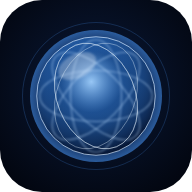
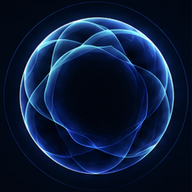
fix: auto running and connections err

diff --git a/ui/src/App.tsx b/ui/src/App.tsx
@@ -98,17 +98,15 @@ export default function App() {
 }
 
 function Mark() {
+  // The client's own artwork, same file the home-screen icon is cut from.
   return (
-    <span className="relative grid h-9 w-9 shrink-0 place-items-center" aria-hidden>
-      <span
-        className="absolute inset-0 rounded-full"
-        style={{ background: "radial-gradient(circle at 35% 30%, #7db9ff, #0a1836 70%)" }}
-      />
-      <span
-        className="absolute inset-0 rounded-full"
-        style={{ boxShadow: "0 0 14px rgba(47,128,255,.7)" }}
-      />
-    </span>
+    <img
+      src="/icon-192.png"
+      alt=""
+      aria-hidden
+      className="h-9 w-9 shrink-0 rounded-full"
+      style={{ boxShadow: "0 0 14px rgba(47,128,255,.55)" }}
+    />
   );
 }
 

diff --git a/ui/public/sw.js b/ui/public/sw.js
@@ -7,7 +7,8 @@
  * and layout appear instantly and the app boots offline far enough to say it
  * has no connection.
  */
-const SHELL_CACHE = "social-shell-v1";
+// Bumped when the icon changed — a stale cache would keep serving the old one.
+const SHELL_CACHE = "social-shell-v2";
 const SHELL = ["/", "/index.html", "/icon-192.png", "/icon-512.png"];
 
 self.addEventListener("install", (event) => {

diff --git a/ui_server/server.py b/ui_server/server.py
@@ -776,14 +776,25 @@ async def _openai_health() -> tuple[bool, str]:
             r = await client.post(
                 "https://api.openai.com/v1/chat/completions",
                 headers={"Authorization": f"Bearer {key}"},
+                # 16, not 1: reasoning models spend tokens thinking before
+                # they emit anything, so a cap of 1 returns 400 "output limit
+                # reached" on a perfectly healthy account.
                 json={"model": os.environ.get("SOCIAL_HEALTH_MODEL", "gpt-5-nano"),
                       "messages": [{"role": "user", "content": "."}],
-                      "max_completion_tokens": 1},
+                      "max_completion_tokens": 16},
             )
+        body = r.json() if r.content else {}
+        error = body.get("error") or {}
+        message = str(error.get("message") or "")
+
         if r.status_code == 200:
             ok, detail = True, "GPT / 音声 / 画像"
+        elif "max_tokens" in message or "output limit" in message:
+            # The request was authorised and billed — it only ran out of room
+            # to answer. That is proof of health, not a failure.
+            ok, detail = True, "GPT / 音声 / 画像"
         else:
-            code = (r.json().get("error") or {}).get("code", "")
+            code = error.get("code", "")
             detail = {
                 "credit_balance_exhausted":
                     "⚠ 残高切れです。チャージが必要です",
@@ -792,6 +803,7 @@ async def _openai_health() -> tuple[bool, str]:
                 "invalid_api_key": "⚠ APIキーが無効です",
                 "rate_limit_exceeded": "一時的に混雑しています",
             }.get(code, f"⚠ 利用できません（{code or r.status_code}）")
+            _ = message  # kept for the branch above
     except Exception:
         detail = "接続を確認できませんでした"
 

diff --git a/docs/RUNBOOK.md b/docs/RUNBOOK.md
@@ -1,0 +1,188 @@
+# SOCIAL — 運用コマンド集
+
+すべて `~/Social-ai` を起点に実行します。
+Hermes を直接呼ばず、必ず `./scripts/social-hermes` を経由してください
+（`HERMES_HOME` と `.env` を固定するラッパーです）。
+
+---
+
+## 1. まず現状を知る
+
+```bash
+cd ~/Social-ai
+./scripts/health-check.sh
+```
+
+環境・秘密情報の有無・ファイル権限・稼働状況をまとめて確認します。
+**値は一切表示しません**（設定済みかどうかだけ）。
+
+```bash
+# 3サービスの状態を一覧
+systemctl --user status hermes-gateway social-tunnel social-ui --no-pager | grep -E "●|Active:"
+```
+
+---
+
+## 2. 常駐サービス
+
+SOCIAL は 3 つのサービスで動いています。すべて **systemd ユーザーサービス**で、
+異常終了しても自動復帰し、サーバー再起動後も自動で立ち上がります。
+
+| サービス | 役割 | ポート |
+|---|---|---|
+| `hermes-gateway` | AI本体・LINE受信・定時実行 | 8646（LINE） |
+| `social-ui` | 専用UI | 9200 |
+| `social-tunnel` | 公開（Cloudflare） | — |
+
+```bash
+# 起動 / 停止 / 再起動
+systemctl --user start   <サービス名>
+systemctl --user stop    <サービス名>
+systemctl --user restart <サービス名>
+
+# 3つまとめて再起動
+systemctl --user restart hermes-gateway social-ui social-tunnel
+
+# ログ（-f で追従）
+journalctl --user -u hermes-gateway -n 50
+journalctl --user -u social-ui -f
+```
+
+> **`./scripts/start-ui.sh` は手動起動用です。**
+> 常用は `systemctl --user start social-ui` を使ってください。手動起動は
+> 監視外なので、落ちるとそのままになります。
+
+---
+
+## 3. 動作確認
+
+```bash
+# 公開URL
+curl -s -o /dev/null -w "UI   %{http_code}\n" https://social-ai01.com/login
+curl -s -o /dev/null -w "LINE %{http_code}\n" https://line.social-ai01.com/line/webhook/health
+
+# SOCIALに直接聞く（CLI）
+./scripts/social-hermes -z "あなたの名前は？"
+
+# 対話モード
+./scripts/social-hermes chat
+```
+
+---
+
+## 4. OpenAI の残高・キー確認
+
+残高が尽きると**会話・音声・画像生成のすべてが停止**します。
+専用UIの **MENU → CONNECTIONS** に状態が出ますが、コマンドでも確認できます。
+
+```bash
+cd ~/Social-ai
+set -o allexport; source .env; set +o allexport
+curl -s https://api.openai.com/v1/chat/completions \
+  -H "Authorization: Bearer $OPENAI_API_KEY" -H "Content-Type: application/json" \
+  -d '{"model":"gpt-5-nano","messages":[{"role":"user","content":"."}],"max_completion_tokens":16}' \
+  | python3 -c "import json,sys;d=json.load(sys.stdin);e=d.get('error');print('NG:',e.get('code')) if e else print('OK')"
+```
+
+`credit_balance_exhausted` が出たらチャージが必要です。
+https://platform.openai.com/settings/organization/billing
+
+> **`/v1/models` では判定できません。** 残高ゼロでも 200 を返します。
+> 実際に課金される呼び出しでしか分かりません。
+
+---
+
+## 5. 秘密情報の追加・変更
+
+**エディタで `.env` を直接編集しないでください。** 専用コマンドがあります。
+
+```bash
+./scripts/set-secret.sh OPENAI_API_KEY        # 入力は非表示
+./scripts/sync-env.sh                          # Hermes側へ反映
+systemctl --user restart hermes-gateway social-ui
+```
+
+`set-secret.sh` は入力を伏せ、シェル履歴にも `ps` にも残さず、
+書き込み後に**実際に読み込めるか検証**します。
+
+---
+
+## 6. デイリーブリーフ
+
+```bash
+./scripts/social-hermes cron list --all      # 状態確認
+./scripts/social-hermes cron runs            # 実行履歴
+./scripts/social-hermes cron pause  <ジョブID>
+./scripts/social-hermes cron resume <ジョブID>
+```
+
+**プロンプトを変えたら必ず同期してください。**
+
+```bash
+vi config/daily-brief-prompt.txt
+./scripts/sync-brief-prompt.sh
+```
+
+> cron ジョブは**作成時のプロンプトを自前で保持**しています。
+> ファイルを編集しただけでは反映されず、しかも**エラーが出ません**。
+> 実際にこれで修正が丸一日効かなかったことがあります。
+
+---
+
+## 7. UI の変更を反映する
+
+```bash
+cd ~/Social-ai/ui
+npm run build
+systemctl --user restart social-ui
+```
+
+アイコンを差し替えた場合は、`ui/public/sw.js` の `SHELL_CACHE` の
+バージョンを上げてください。上げないと、インストール済みの端末で
+古いアイコンが残り続けます。
+
+---
+
+## 8. バックアップ
+
+```bash
+./scripts/backup.sh          # 記憶・会話履歴・設定・スキルを丸ごと
+```
+
+出力には**秘密情報が含まれます**。共有ストレージに置かないでください。
+
+---
+
+## 9. 困ったときの順序
+
+```bash
+# 1. まず全体像
+./scripts/health-check.sh
+
+# 2. Hermes側の診断
+./scripts/social-hermes doctor
+
+# 3. どのサービスが落ちているか
+systemctl --user status hermes-gateway social-ui social-tunnel --no-pager
+
+# 4. 直近のエラー
+journalctl --user -u hermes-gateway -n 80 --no-pager | grep -iE "error|fail"
+```
+
+| 症状 | 最初に見るところ |
+|---|---|
+| 返事が来ない（LINE・UI両方） | OpenAIの残高（上記4） |
+| 専用URLが開かない | `social-ui` と `social-tunnel` |
+| LINEだけ無反応 | `hermes-gateway` のログ |
+| ブリーフが届かない | `cron runs` の実行履歴 |
+| 記憶が消えた？ | `.hermes/memories/` の中身 |
+
+---
+
+## 10. 本番サーバーへの移行
+
+まだ実施していません。手順は [MIGRATION.md](MIGRATION.md) にあります。
+
+```bash
+./scripts/migration-check.sh   # 移行可能な状態かを検査
+```

diff --git a/docs/CUSTOM_UI.md b/docs/CUSTOM_UI.md
@@ -258,8 +258,40 @@ The service worker **deliberately does not cache API responses**. SOCIAL's
 value is current information; a cached brief or a stale memory list would be
 worse than showing nothing. Only the app shell is cached.
 
-Icons are generated into `ui/public/` (192px and 512px, plus a maskable
-variant). Regenerate them from `ui/public/icon.svg` if the mark changes.
+### Icons
+
+The artwork is **the client's own image**, used as supplied rather than
+recreated — an earlier hand-drawn SVG approximation was close but visibly not
+theirs. Master kept at `config/brand/icon-source.png` (outside `public/`, so
+the 1 MB original is never served); the shipped sizes are cut from it:
+
+```bash
+FF=tools/ffmpeg-7.0.2-amd64-static/ffmpeg
+SRC=config/brand/icon-source.png
+for s in 192 512; do
+  "$FF" -y -i "$SRC" -vf "crop='min(iw,ih)':'min(iw,ih)',scale=$s:$s:flags=lanczos" \
+    -frames:v 1 "ui/public/icon-$s.png"
+done
+```
+
+**The maskable variant is a separate file, not the same one reused.** Android
+crops maskable icons to a circle and keeps roughly the inner 80%; the sphere
+runs to the edge of the frame, so reusing `icon-512.png` shaves its rim off.
+`icon-maskable-512.png` scales the sphere to 410px inside a 512px canvas
+padded with the artwork's own background:
+
+```bash
+"$FF" -y -i "$SRC" -vf \
+  "crop='min(iw,ih)':'min(iw,ih)',scale=410:410:flags=lanczos,pad=512:512:51:51:color=0x04070f" \
+  -frames:v 1 ui/public/icon-maskable-512.png
+```
+
+The header mark reuses `icon-192.png`, so the app and its home-screen icon
+are visibly the same thing.
+
+**Bump `SHELL_CACHE` in `sw.js` whenever an icon changes** — it is cached by
+the service worker, and a stale cache keeps serving the old one after an
+install.
 
 ## Access
 

diff --git a/docs/OPERATIONS.md b/docs/OPERATIONS.md
@@ -71,9 +71,25 @@ owner allowlist) and `LINE_HOME_CHANNEL` (the Daily Brief push target), and
 it pins `LINE_HOST=127.0.0.1` so the webhook stays behind the tunnel. It
 prints key names only, never values.
 
-## 24/7 service
+## 24/7 services
 
-Installed as a **systemd user service**:
+Three **systemd user services**, all `Restart=always`, all enabled at boot,
+with linger on so they survive logout:
+
+| Unit | Role |
+|---|---|
+| `hermes-gateway` | agent, LINE intake, cron |
+| `social-ui` | the owner's UI on 9200 |
+| `social-tunnel` | Cloudflare tunnel |
+
+`social-ui` was added on 2026-09-02 after the UI went down and stayed down:
+it was the only component started by hand, so nothing brought it back. Use
+`systemctl --user start social-ui` rather than `scripts/start-ui.sh`, which
+is now only for foreground debugging.
+
+Install it with `./scripts/install-ui-service.sh`.
+
+Day-to-day commands live in [RUNBOOK.md](RUNBOOK.md).
 
 ```
 ~/.config/systemd/user/hermes-gateway.service
